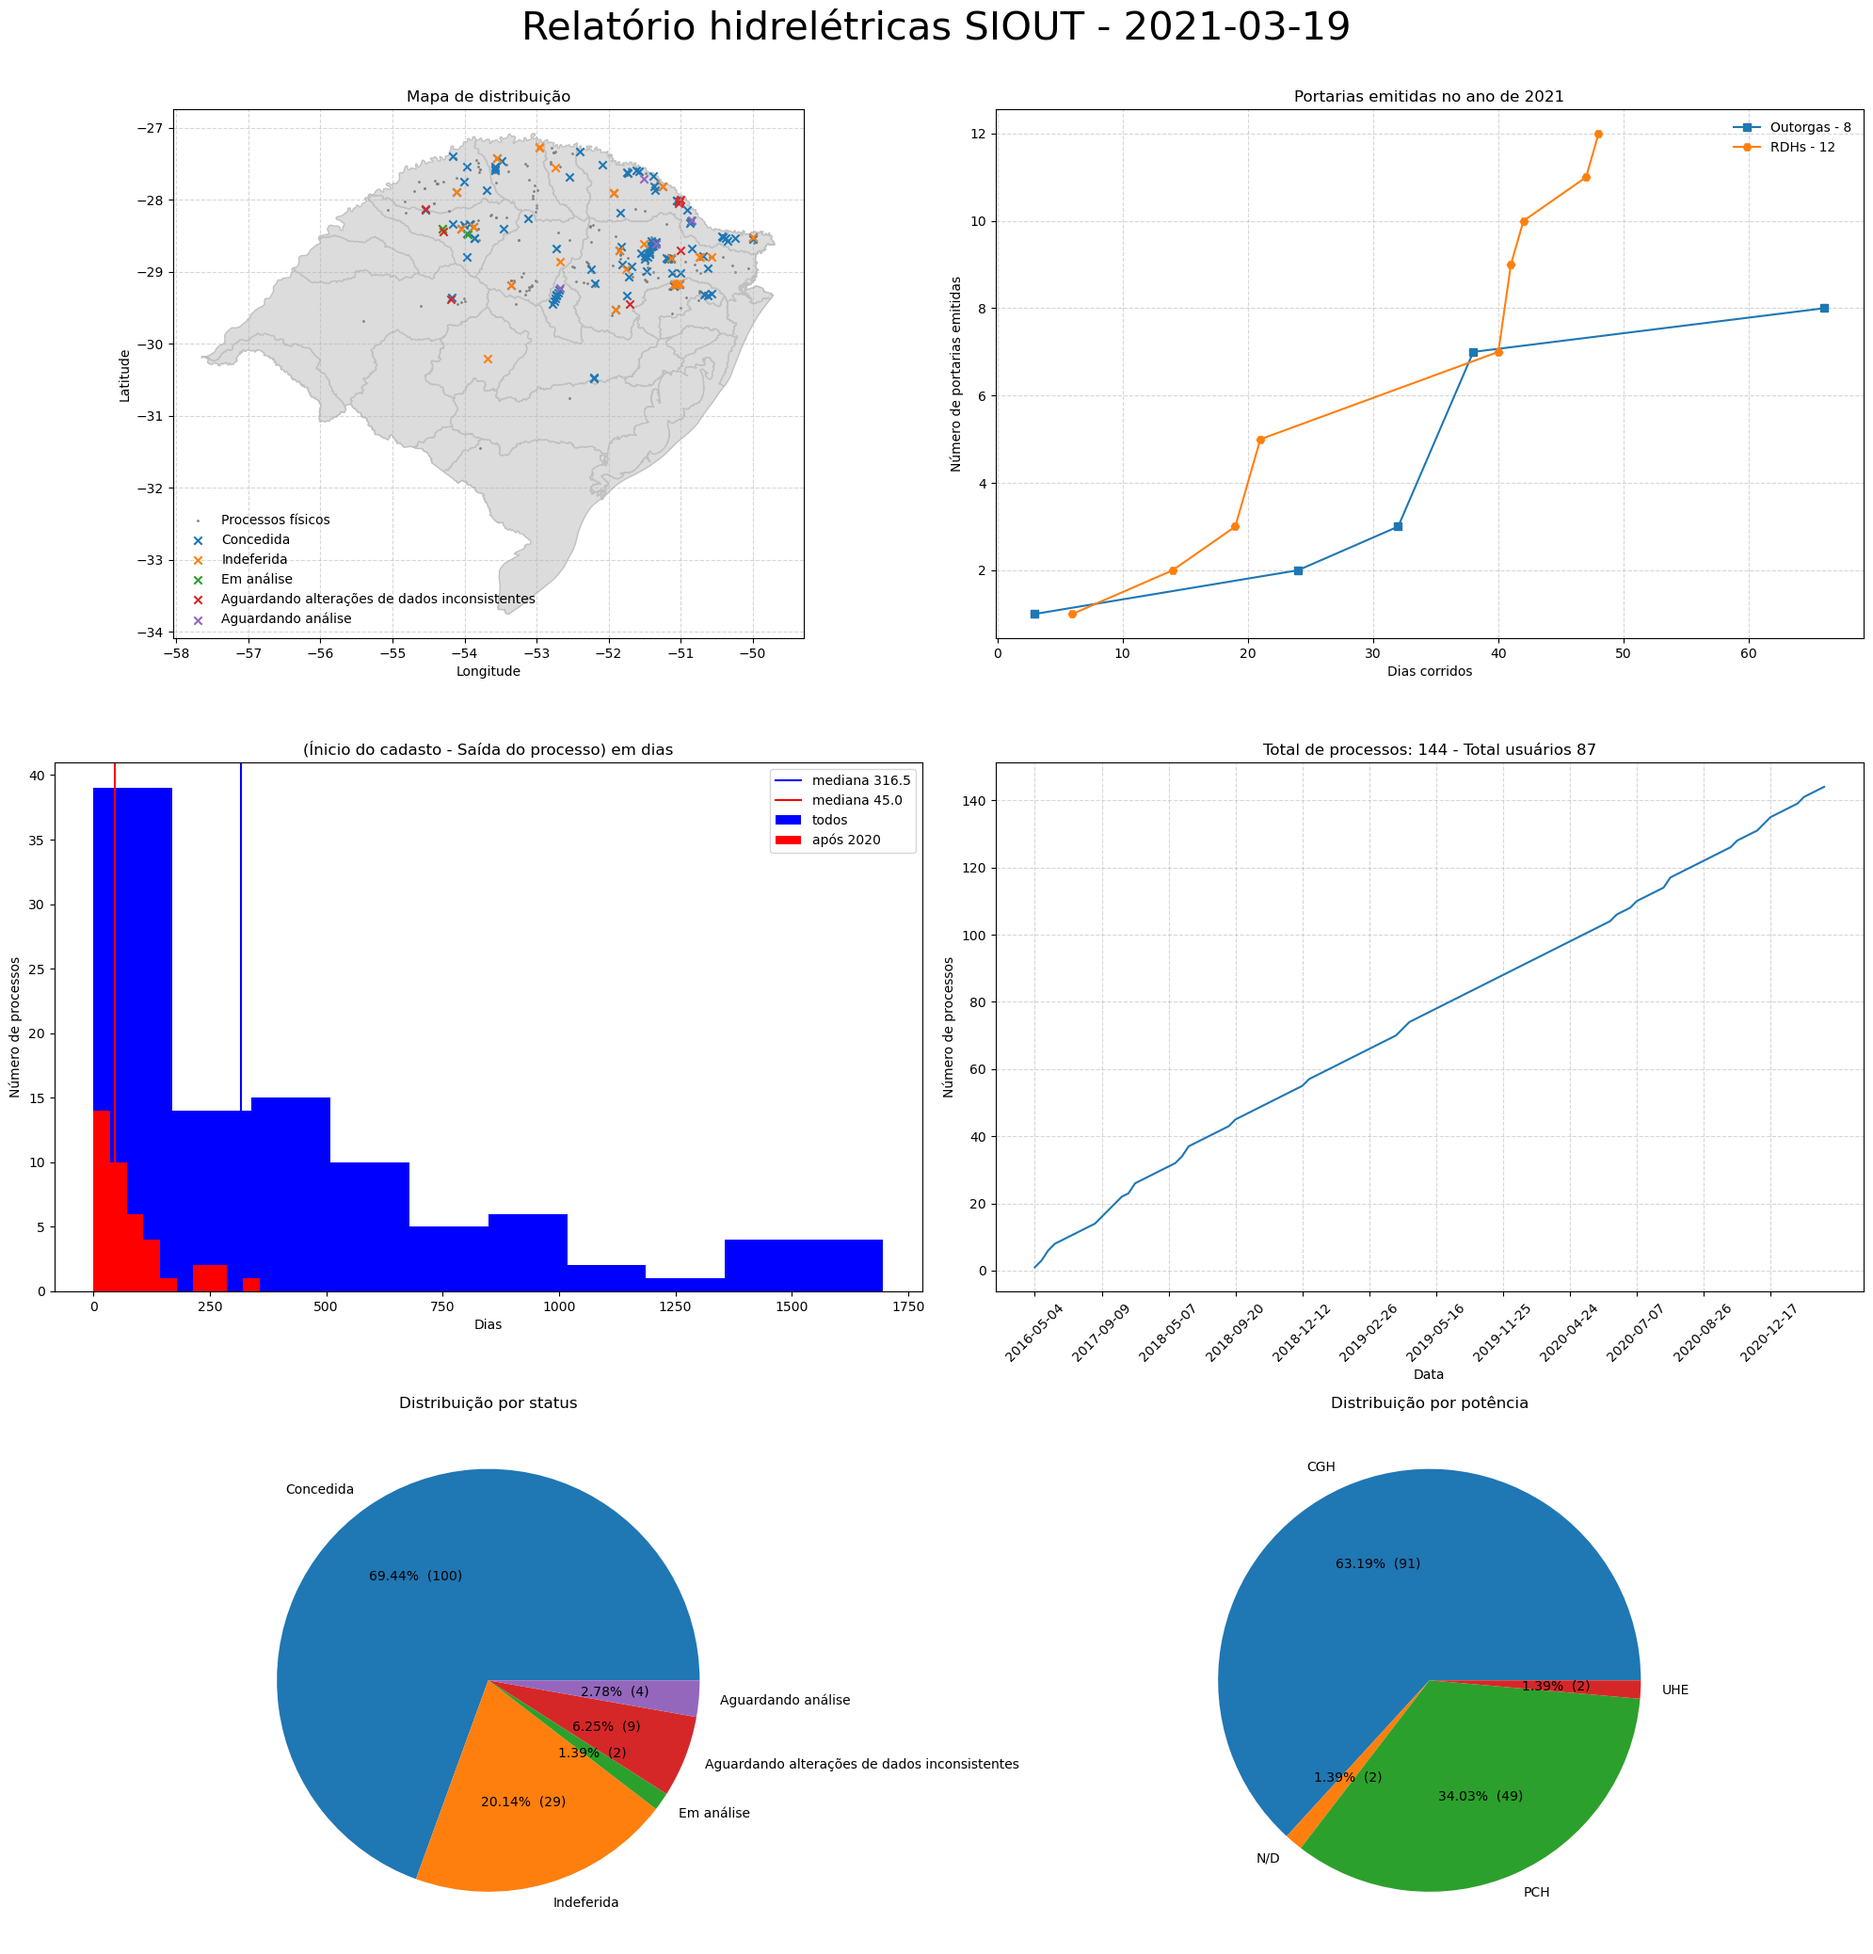
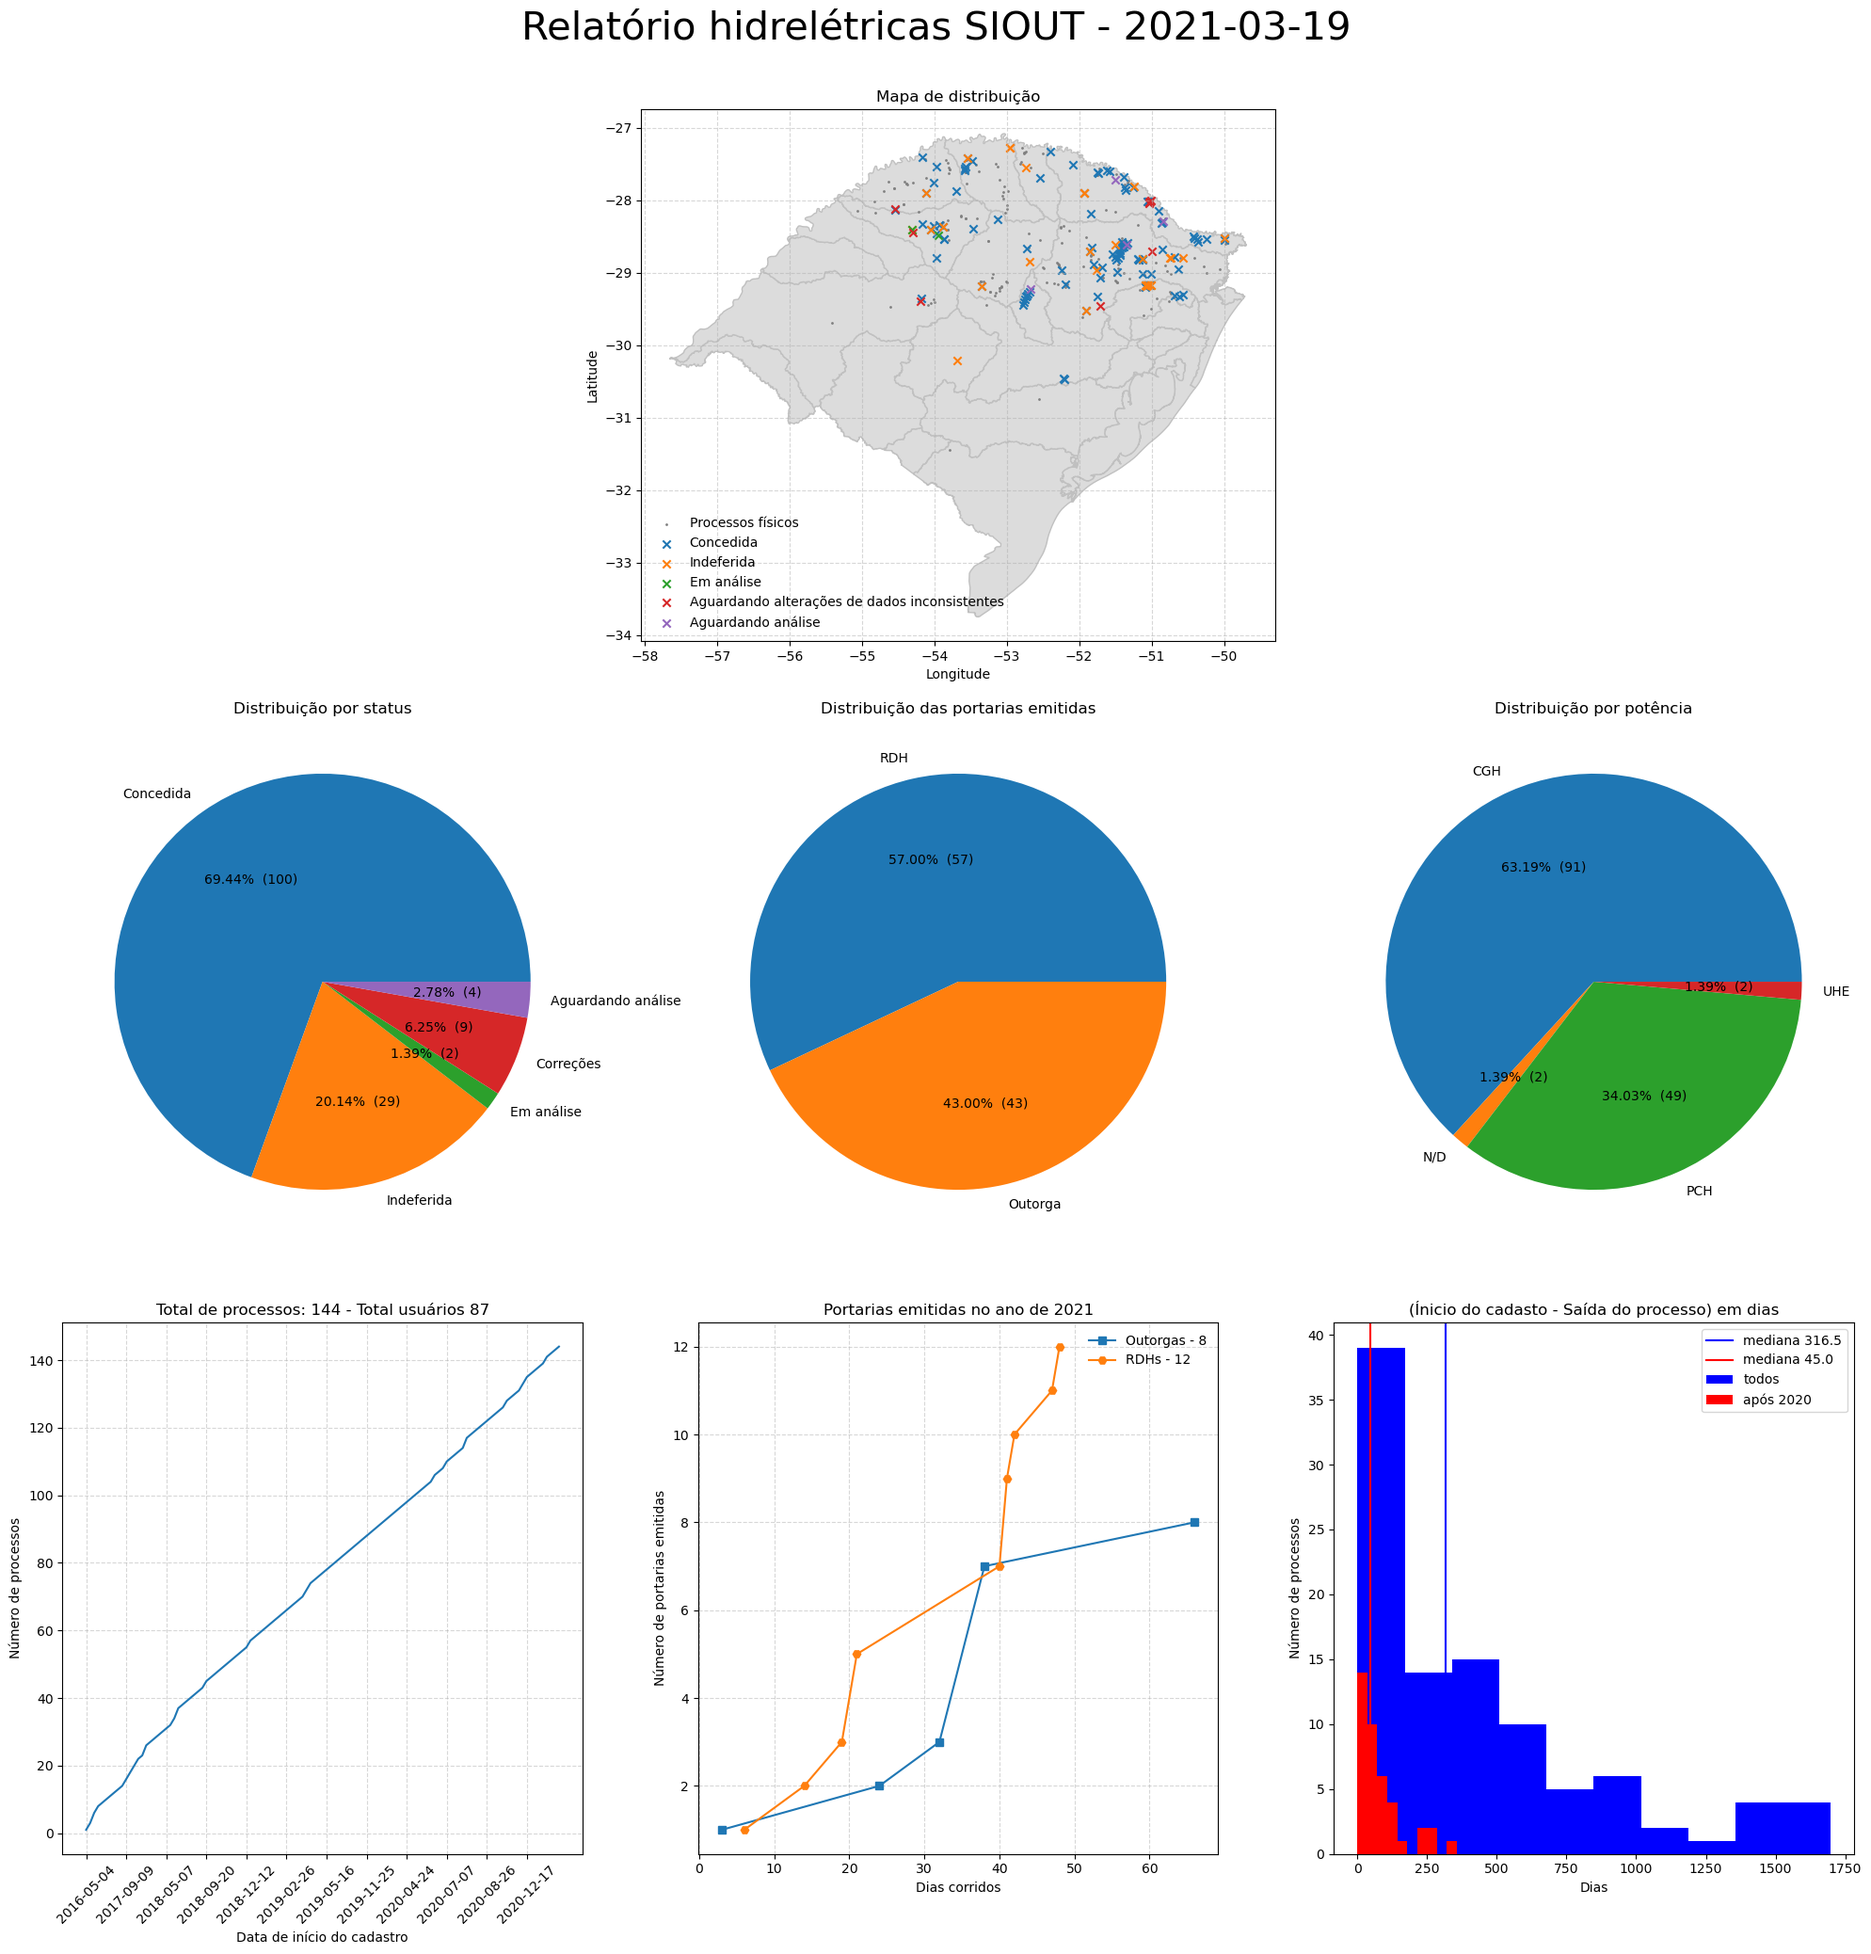
gridspec

diff --git a/gerar_relatorio.py b/gerar_relatorio.py
@@ -5,6 +5,7 @@ import geopandas
 from pykml.factory import KML_ElementMaker as KML
 from lxml import etree
 import matplotlib.pyplot as plt
+import matplotlib.gridspec as gridspec
 import numpy as np
 from datetime import date
 import re
@@ -112,8 +113,15 @@ if em.shape[0] > 0:
 
 #plotando
 print('Plotando gráficos... \n')
-fig, axes = plt.subplots(nrows=3, ncols=2,figsize=(20,20))
-ax1, ax2, ax3, ax4, ax5, ax6 = axes.flatten()
+fig = plt.figure(constrained_layout=True, figsize=(20,20))
+spec = gridspec.GridSpec(ncols=3, nrows=3, figure=fig)
+ax1 = fig.add_subplot(spec[0, :])
+ax5 = fig.add_subplot(spec[1, 0])
+ax7 = fig.add_subplot(spec[1, 1])
+ax6 = fig.add_subplot(spec[1, 2])
+ax4 = fig.add_subplot(spec[2, 0])
+ax2 = fig.add_subplot(spec[2, 1])
+ax3 = fig.add_subplot(spec[2, 2])
 
 fig.text(0.5,1.02,
         'Relatório hidrelétricas SIOUT - {}'.format(today),
@@ -274,7 +282,7 @@ x = [x for x in range(len(d_unique))]
 y = np.cumsum(cad_dia)
 ax4.plot(x, y)
 ax4.grid(alpha=0.5, linestyle='--')
-ax4.set_xlabel('Data')
+ax4.set_xlabel('Data de início do cadastro')
 ax4.set_ylabel('Número de processos')
 ax4.set_title('Total de processos: {} - Total usuários {}'.format(y[-1], n_usu))
 tcks = [d_unique[i] for i in range(0, len(d_unique), 10)]
@@ -286,6 +294,8 @@ pie_dict = {}
 for s in u_status:
     ns = sum(df_filtrado['Status'] == s)
     if ns > 0:
+        if s == "Aguardando alterações de dados inconsistentes":
+            s = "Correções"
         pie_dict[s] = ns
         
 pie_dict_ahe = {}
@@ -309,6 +319,16 @@ ax6.pie(pie_dict_ahe.values(), autopct=make_autopct(pie_dict_ahe.values()), labe
 
 ax5.set_title('Distribuição por status')
 ax6.set_title('Distribuição por potência')
+
+#portarias emitidas
+filtro_concedida = df['Status'] == "Concedida"
+filtro_outorga = df['Classificação'] == 'Outorga'
+filtro_rdh = df['Classificação'] == 'Reserva de disponibilidade hídrica'
+outorga = len(df[filtro_concedida][filtro_outorga])
+rdh = len(df[filtro_concedida][filtro_rdh])
+pie_dict_potarias = {"RDH":rdh,"Outorga":outorga}
+ax7.pie(pie_dict_potarias.values(), autopct=make_autopct(pie_dict_potarias.values()), labels=pie_dict_potarias.keys())
+ax7.set_title("Distribuição das portarias emitidas")
 
 #saving
 fig.tight_layout()
